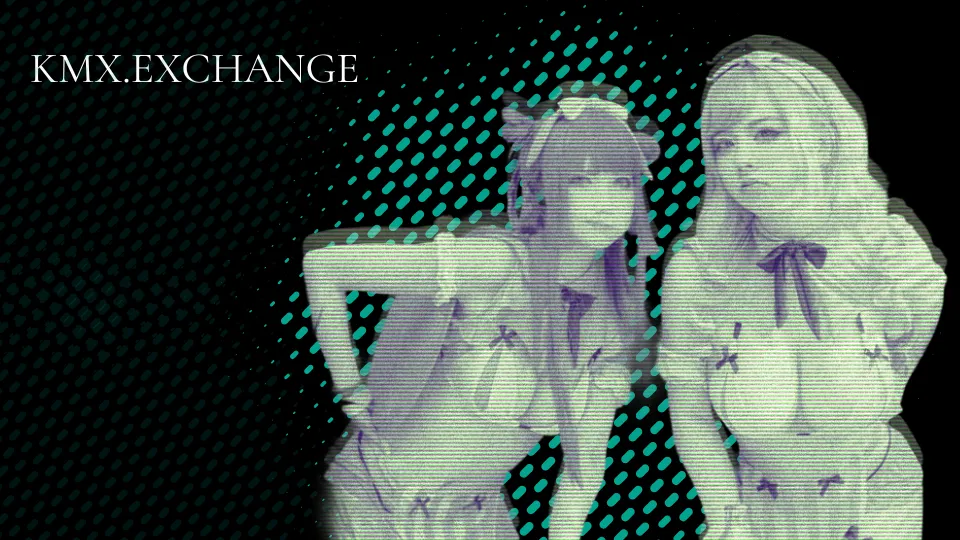
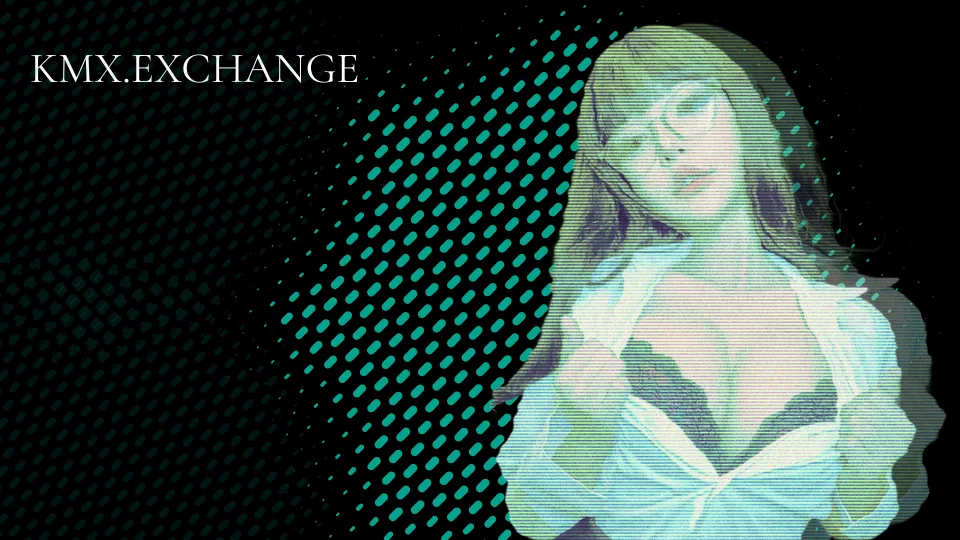
Update DEX configuration and branding

diff --git a/public/config.js b/public/config.js
@@ -25,7 +25,7 @@ window.__RUNTIME_CONFIG__ = {
   "VITE_TWITTER_URL": "https://x.com/KMX_Exchange",
   "VITE_SEO_SITE_NAME": "Why Traders Are Leaving Hyperliquid for KMX Exchange.",
   "VITE_SEO_SITE_DESCRIPTION": "KMX Exchange — a modern, Robinhood-style crypto trading platform. A simple, retail-friendly alternative to Hyperliquid for perpetual trading.",
-  "VITE_SEO_SITE_URL": "https://dex.orderly.network/kmx-kuma-exchange-1382/",
+  "VITE_SEO_SITE_URL": "https://kmx.exchange",
   "VITE_SEO_SITE_LANGUAGE": "en",
   "VITE_SEO_SITE_LOCALE": "en_US",
   "VITE_SEO_TWITTER_HANDLE": "@KMX_Exchange",
@@ -33,6 +33,6 @@ window.__RUNTIME_CONFIG__ = {
   "VITE_SEO_KEYWORDS": "KMX Exchange, Kuma Exchange, KMX crypto, Hyperliquid alternative, Hyperliquid vs KMX, Hyperliquid exchange, best Hyperliquid alternative, crypto exchange, perpetual exchange, perp DEX, crypto trading platform, modern fintech exchange, Robinhood style crypto, simple crypto trading, beginner friendly crypto exchange, Kuma crypto, KMX perp trading, Hyperliquid competitor, crypto on ramp, fiat to crypto exchange, secure crypto trading, fast crypto exchange",
   "VITE_AVAILABLE_LANGUAGES": "en,zh,ja,es,ko,vi,de,fr,ru,id,tr,it,pt,uk,pl,nl",
   "VITE_USE_CUSTOM_PNL_POSTERS": "true",
-  "VITE_CUSTOM_PNL_POSTER_COUNT": "1",
+  "VITE_CUSTOM_PNL_POSTER_COUNT": "2",
   "VITE_TRADING_VIEW_COLOR_CONFIG": ""
 };
